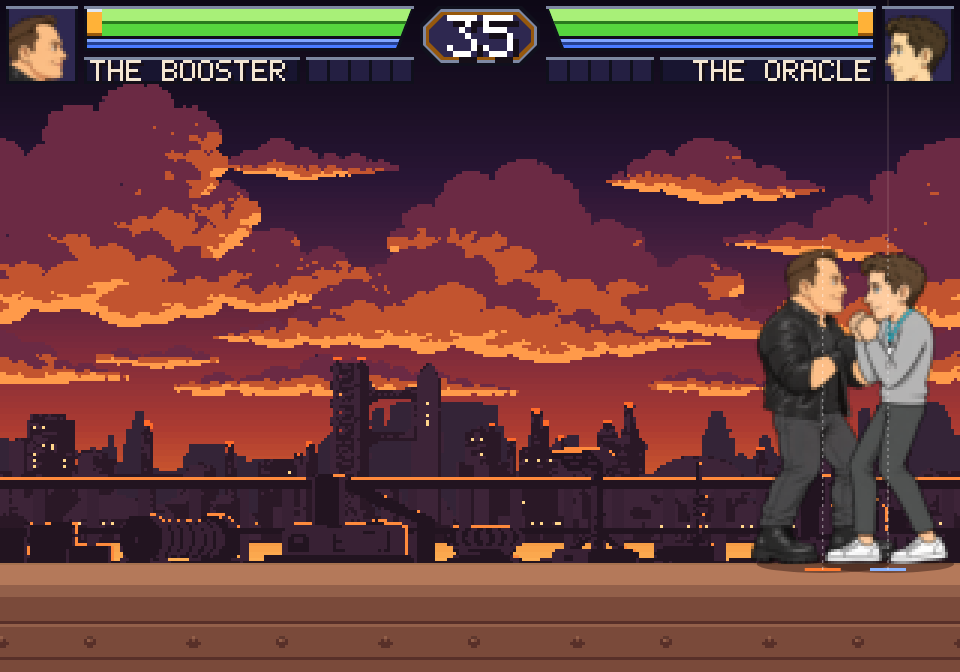
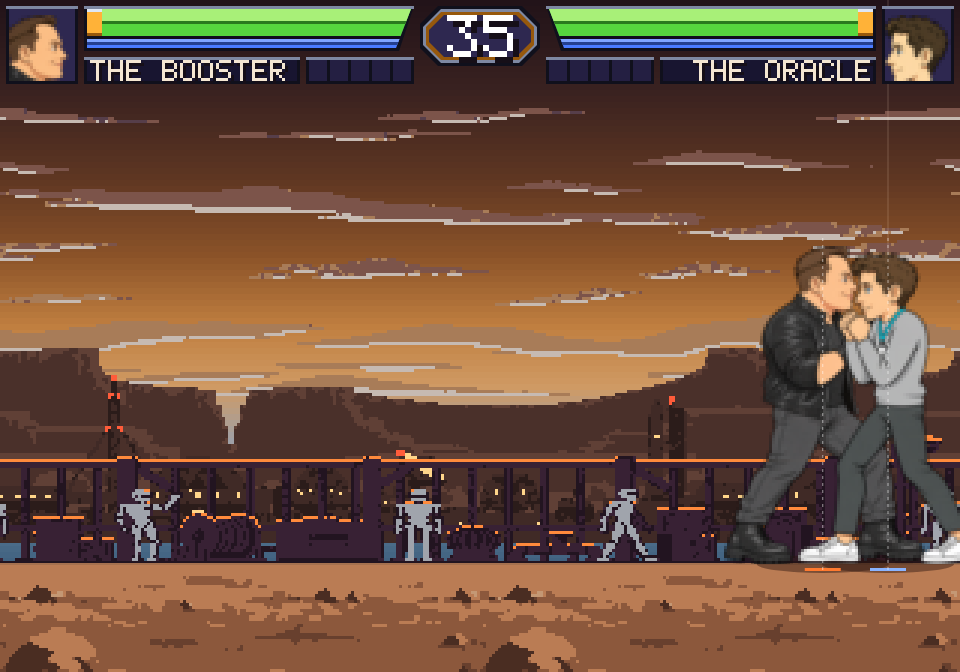
feat(arcade): make the stage read as Mars, and swap the DC-9 for robots
The backdrop looked like an Earth city at sunset. Not because of the structures —
because of the light. An orange horizon, billowing water-vapour cumulus, a dense
skyline of rectangular towers with rectangular lit windows, and a riveted metal
floor are all terrestrial cues, and together they overrode everything Martian in
front of them.

The load-bearing change is the sky. Mars inverts Earth's sunset: fine suspended dust
forward-scatters red light, so the sky is butterscotch overall while the region
around the setting sun goes grey-blue. It is the most recognisable thing about the
place and it cost nothing but the anchor list.

- clouds: long thin dust and ice wisps with pale cool undersides, not cumulus
- colony: a LOW outpost -- geodesic domes, cylindrical habitats with round
  portholes, solar fields, a dish, a cargo lander and a rover -- not a city
- ridge: broad flat-topped mesas and a crater rim
- ground: REGOLITH, dust drifts and scattered rock, replacing the metal decking; its
  span widened 64 -> 160 because loose ground has no periodic features to hide a
  short repeat behind, the way panel seams did
- apron: four humanoid robots among the equipment, at owner request

The robots are in the apron layer at parallax 0.74, not the colony. At outpost
distance a human-scale robot is three or four pixels tall and reads as grit; on the
apron plane it stands about 28 px and reads as a machine.
[…]

diff --git a/src/game/marsArcadeStage.ts b/src/game/marsArcadeStage.ts
@@ -110,15 +110,31 @@ export interface MarsArcadeBand {
 }
 
 /**
- * The sky, as a fine ramp between eight anchor colours.
+ * The sky, as a fine ramp between ten anchor colours.
  *
  * These bands are the reason the fighters read at all: the retired stage was
  * near-black above and below the floor line, so a dark sprite sat on a dark field
  * and the silhouette — the one thing a fighting game cannot compromise on —
  * disappeared. `the stage is not a void` in the tests holds that.
  *
+ * **The ramp goes butterscotch at altitude and COOL BLUE at the horizon, which is
+ * the point — and the cool band has to start high enough to actually be seen.**
+ * The outpost, the mesas and the barrier own everything from row 146 down, so a blue
+ * that only began near the floor was drawn over before it reached the screen. It now
+ * starts at 146, in the gap between the cloud bases and the horizon clutter.
+ *
+ * The rust band above it is also deliberately BRIGHT. Mars is monochrome by nature,
+ * and a stage where sky, terrain, outpost and ground are all the same rust value
+ * turns to mud — the first attempt did exactly that. The silhouettes are dark by
+ * design, so the sky behind them carries the contrast. It ran orange-at-the-bottom before, and that is an Earth sunset — it
+ * is what made the stage read as a terrestrial city at dusk however Martian the
+ * structures in front of it were. Mars inverts it: fine suspended dust scatters red
+ * light forward, so the sky is butterscotch overall while the region around the
+ * setting sun goes grey-blue. It is the single most recognisable thing about the
+ * place, and it costs nothing but the anchor list.
+ *
  * The anchors used to be held for 24 to 30 rows each, which made the sky read as
- * eight stripes rather than as dusk. They are now interpolated in two-row steps.
+ * stripes rather than as dusk. They are now interpolated in two-row steps.
  * That is safe because **these bands are screen-space and never scroll** — the
  * harness fills them at x = 0 across the full width with no camera offset — so the
  * prompt pack's "no gradients, they crawl at integer scroll" rule binds the
@@ -126,9 +142,9 @@ export interface MarsArcadeBand {
  * visible banding, because the cabinet should still look drawn rather than shaded.
  */
 const SKY_ANCHORS: ReadonlyArray<readonly [number, string]> = [
-  [0, '#0d0816'], [30, '#180e22'], [58, '#281534'], [84, '#47203f'],
-  [114, '#7a2a3c'], [142, '#ad3b31'], [166, '#db652b'], [176, '#f2913c'],
-  [188, '#ffb457'],
+  [0, '#221319'], [30, '#3a2220'], [58, '#5e3622'], [84, '#8a5228'],
+  [108, '#c07f40'], [128, '#cf9a64'], [146, '#9fa0a6'], [162, '#6e8ba0'],
+  [175, '#52728e'], [188, '#3e5f7e'],
 ]
 const SKY_STEP = 2
 
@@ -162,11 +178,17 @@ function skyRamp(): MarsArcadeBand[] {
   return bands
 }
 
-/** Below the floor line: the lit front lip first, then falling away. */
+/**
+ * Below the floor line: the sunlit lip first, then falling away into shadow.
+ *
+ * Regolith tones rather than deck tones. These sit UNDER the ground tile and are
+ * only seen if it fails to load, so they are chosen to degrade into bare dusty
+ * ground rather than into a brown floor that would read as missing art.
+ */
 const FLOOR_BANDS: MarsArcadeBand[] = [
-  { y: 188, height: 4, colour: '#c47a4e' },
-  { y: 192, height: 14, colour: '#7a4a3a' },
-  { y: 206, height: 18, colour: '#4e2d26' },
+  { y: 188, height: 4, colour: '#ba7c54' },
+  { y: 192, height: 14, colour: '#8c583c' },
+  { y: 206, height: 18, colour: '#5f3b2a' },
 ]
 
 export const MARS_ARCADE_BANDS: MarsArcadeBand[] = [...skyRamp(), ...FLOOR_BANDS]
@@ -180,17 +202,20 @@ export const MARS_ARCADE_BANDS: MarsArcadeBand[] = [...skyRamp(), ...FLOOR_BANDS
  * barrier splits the near ground from the distance. Raising the colony to fill that
  * gap was tried and merged the two dark masses into one.
  *
- * Span widths stay at the tile widths. The deck is parallax 1 with a 64 px span: it
- * is what actually tells the player the stage moved.
+ * The nearest layer is parallax 1, which is what actually tells the player the stage
+ * moved. It is REGOLITH, not decking: dust drifts and scattered rock, because a
+ * riveted metal floor is the one thing in the frame that could not be Mars. Its span
+ * widened from 64 to 160 at the same time — loose ground has no periodic features to
+ * hide a short repeat behind, the way panel seams did.
  */
 const BACKDROP_ROOT = '/art-source/arcade/generated/backdrop-v1'
 
 export const MARS_ARCADE_BACKDROP: MarsArcadeBackdropLayer[] = [
-  { id: 'clouds', src: `${BACKDROP_ROOT}/clouds-320x104.png`, parallax: 0.1, spanWidth: 320, width: 320, height: 104, bottomRow: 132 },
-  { id: 'ridge', src: `${BACKDROP_ROOT}/ridge-320x40.png`, parallax: 0.2, spanWidth: 320, width: 320, height: 40, bottomRow: 174 },
-  { id: 'colony', src: `${BACKDROP_ROOT}/colony-320x62.png`, parallax: 0.42, spanWidth: 320, width: 320, height: 62, bottomRow: 181 },
-  { id: 'apron', src: `${BACKDROP_ROOT}/apron-320x40.png`, parallax: 0.74, spanWidth: 320, width: 320, height: 40, bottomRow: 189 },
-  { id: 'deck', src: `${BACKDROP_ROOT}/deck-64x36.png`, parallax: 1, spanWidth: 64, width: 64, height: 36, bottomRow: 224 },
+  { id: 'clouds', src: `${BACKDROP_ROOT}/clouds-mars-320x96.png`, parallax: 0.1, spanWidth: 320, width: 320, height: 96, bottomRow: 132 },
+  { id: 'ridge', src: `${BACKDROP_ROOT}/ridge-mars-320x56.png`, parallax: 0.2, spanWidth: 320, width: 320, height: 56, bottomRow: 172 },
+  { id: 'colony', src: `${BACKDROP_ROOT}/colony-mars-320x56.png`, parallax: 0.42, spanWidth: 320, width: 320, height: 56, bottomRow: 181 },
+  { id: 'apron', src: `${BACKDROP_ROOT}/apron-mars-320x44.png`, parallax: 0.74, spanWidth: 320, width: 320, height: 44, bottomRow: 189 },
+  { id: 'ground', src: `${BACKDROP_ROOT}/ground-160x36.png`, parallax: 1, spanWidth: 160, width: 160, height: 36, bottomRow: 224 },
 ]
 
 /**

diff --git a/src/game/marsArcadeStage.test.ts b/src/game/marsArcadeStage.test.ts
@@ -157,11 +157,11 @@ describe('mars arcade backdrop', () => {
     }
   })
 
-  it('locks the deck to stage space, so walking reads as movement', () => {
-    const deck = MARS_ARCADE_BACKDROP.find((layer) => layer.id === 'deck')
+  it('locks the ground to stage space, so walking reads as movement', () => {
+    const deck = MARS_ARCADE_BACKDROP.find((layer) => layer.id === 'ground')
     expect(deck?.parallax).toBe(1)
     if (!deck) return
-    // A deck feature and a fighter standing on it must move together: both are
+    // A ground feature and a fighter standing on it must move together: both are
     // stage-space, so the layer shift is exactly the fighter's screen displacement.
     for (const camera of [-80, 0, 37, 104]) {
       const featureX = marsArcadeLayerShift(deck, camera) + MARS_ARCADE_VIEW.width / 2

diff --git a/asset-reports/mars-arcade-backdrop-2026-09-22.md b/asset-reports/mars-arcade-backdrop-2026-09-22.md
@@ -46,10 +46,12 @@ column-to-column differences — see the correction below, because the first ver
 this measurement was wrong and manufactured two defects that did not exist. All five use
 every palette entry they were given, so nothing collapsed to a single tone.
 
-The colony carries **the DC-9 parked on the pad** — the one piece of story in the
-backdrop — and it reads correctly: T-tail, two rear-fuselage engines, clean low wings,
-lit cabin windows. The committed code shape it replaces reads as a park bench. v2 also
-adds a colossal launch gantry and rocket as the skyline's hero structure.
+The colony originally carried a DC-9 parked on the pad, which read correctly — T-tail,
+two rear-fuselage engines, clean low wings, lit cabin windows — against a code shape that
+had read as a park bench. **Removed on the owner's instruction, 2026-09-22**, along with
+the whole Earth-sunset treatment; see the Mars pass below. `fx.flyby` still carries the
+aircraft inside the cabinet, so the tribute is not lost, and it was deliberately left
+alone because it is THE CAPTAIN's special rather than scenery.
 
 ## New tool
 
@@ -162,3 +164,53 @@ also wrong and are recorded here so they are not retried: a single-step bevel re
 UI, and over-correcting to a five-ring timer and mid-steel frame bodies blew the value
 structure out — the trough must stay clearly lighter than the scene behind it or every bar
 reads as a wireframe.
+
+## The Mars pass — 2026-09-22 (evening)
+
+Owner: *"Let's get our backdrop to look more like Mars. I also think we need a different
+look for the ground they are walking on."* Then: *"I don't want the DC-9 in there, maybe
+have some Optimus robots."*
+
+**Why the first version read as Earth.** Not the structures — the light. It had an orange
+sunset at the horizon, billowing water-vapour cumulus, a dense skyline of tall rectangular
+towers with rectangular lit windows, and a riveted metal floor. Every one of those is a
+terrestrial cue, and together they overrode anything Martian in front of them.
+
+| Layer | Was | Now |
+| --- | --- | --- |
+| sky ramp | orange at the horizon | butterscotch above, **cool blue at the horizon** |
+| clouds | billowing cumulus, warm rims | long thin dust and ice wisps, pale cool undersides |
+| colony | dense city skyline, launch gantry, DC-9 | low outpost: domes, cylindrical habitats with round portholes, solar fields, dish, cargo lander, rover |
+| ridge | angular cliffs | broad flat-topped mesas and a crater rim |
+| apron | crates and equipment | the same, plus **four humanoid robots** |
+| ground | riveted metal decking, 64 px span | **regolith** — dust drifts and scattered rock, 160 px span |
+
+**The blue horizon is the load-bearing change.** Mars inverts Earth's sunset: fine
+suspended dust forward-scatters red light, so the sky is butterscotch overall while the
+region around the setting sun goes grey-blue. It is the single most recognisable thing
+about the place and it cost nothing but the anchor list.
+
+**Three things went wrong and are worth not repeating.**
+
+1. **The cool band was invisible at first.** It was anchored near the floor, but the
+   outpost, mesas and barrier own everything from row 146 down, so it was drawn over
+   before it reached the screen. It has to start in the gap between the cloud bases and
+   the horizon clutter.
+2. **Then the whole stage went monochrome brown.** Mars is genuinely low-chroma, and with
+   sky, terrain, outpost and ground all in the same rust value the image turned to mud and
+   the fighters stopped separating from it. The silhouettes are dark by design, so the
+   sky above them has to carry the contrast — the rust band is now deliberately bright.
+   Measured: `check-arcade-stage.mjs` reports two commonest colours covering **16.9%**,
+   down from 23.3% and from 88.5% for the retired void.
+3. **The robot apron came back with a BLACK background instead of the magenta plate**,
+   with glow and gradient, which would have keyed as solid and blocked the sky entirely.
+   The chroma requirement had been buried in the middle of a long prompt. Moving it to the
+   top as an explicit "this is a chroma-key plate, a dark background makes this unusable"
+   block fixed it on the next attempt: **82.6% flat magenta**.
+
+**Scale note on the robots.** They are in the `apron` layer at parallax 0.74, not in the
+colony. At outpost distance a human-scale robot is three or four pixels tall and reads as
+grit; on the apron plane it stands about 28 px and reads as a machine.
+
+**The DC-9 is gone from the backdrop only.** `fx.flyby` — THE CAPTAIN's special — still
+carries it, and was deliberately left alone because it is a move, not scenery.

diff --git a/asset-reports/mars-arcade-frame-prompt-pack.md b/asset-reports/mars-arcade-frame-prompt-pack.md
@@ -510,9 +510,9 @@ factor and the span width exactly, and gate each one the same way a character fr
 | --- | --- | --- | --- |
 | `stars` | 0.06 | 320×84 | Mars night sky: sparse stars, Phobos and Deimos. Nothing above row 28 — the HUD is there. |
 | `ridge` | 0.20 | 320×48 | A far ridge line, flat silhouette, based on the horizon glow and never reaching the floor. |
-| `colony` | 0.42 | 320×40 | Habitat domes with lit windows, a comms mast, and **a DC-9 parked on the far pad** — the tribute aircraft at rest, and the one piece of story in the backdrop. T-tail, rear-fuselage engines, lit cabin windows; it must read as a DC-9 and not as a generic airliner. |
+| `colony` | 0.42 | 320×56 | A LOW Mars outpost, never a city skyline: geodesic domes, horizontal cylindrical habitat modules with round portholes, connecting tubes, solar array fields, tanks, one comms mast, one dish, one rocket on a service tower, and a landing apron with a cargo lander and a rover. **No aircraft.** Owner decision 2026-09-22: the DC-9 was removed from the backdrop — the tribute has its own chapter, and `fx.flyby` still carries it inside the cabinet. |
 | `pad` | 0.74 | 160×12 | The near berm and its landing lights. |
-| `deck` | 1.00 | 64×36 | The deck the fighters stand on: seams, rivets, scuffs. At parallax 1 with a short span, this is what actually tells the player the stage moved. |
+| `ground` | 1.00 | 160×36 | REGOLITH, not decking: dust drifts, ripples and scattered rock, with a sunlit top strip. A riveted metal floor is the one thing in frame that could not be Mars. At parallax 1 this is what tells the player the stage moved; the span widened from 64 to 160 because loose ground has no periodic features to hide a short repeat behind. |
 
 **Rules a generated layer must meet, on top of the usual ones**
 
